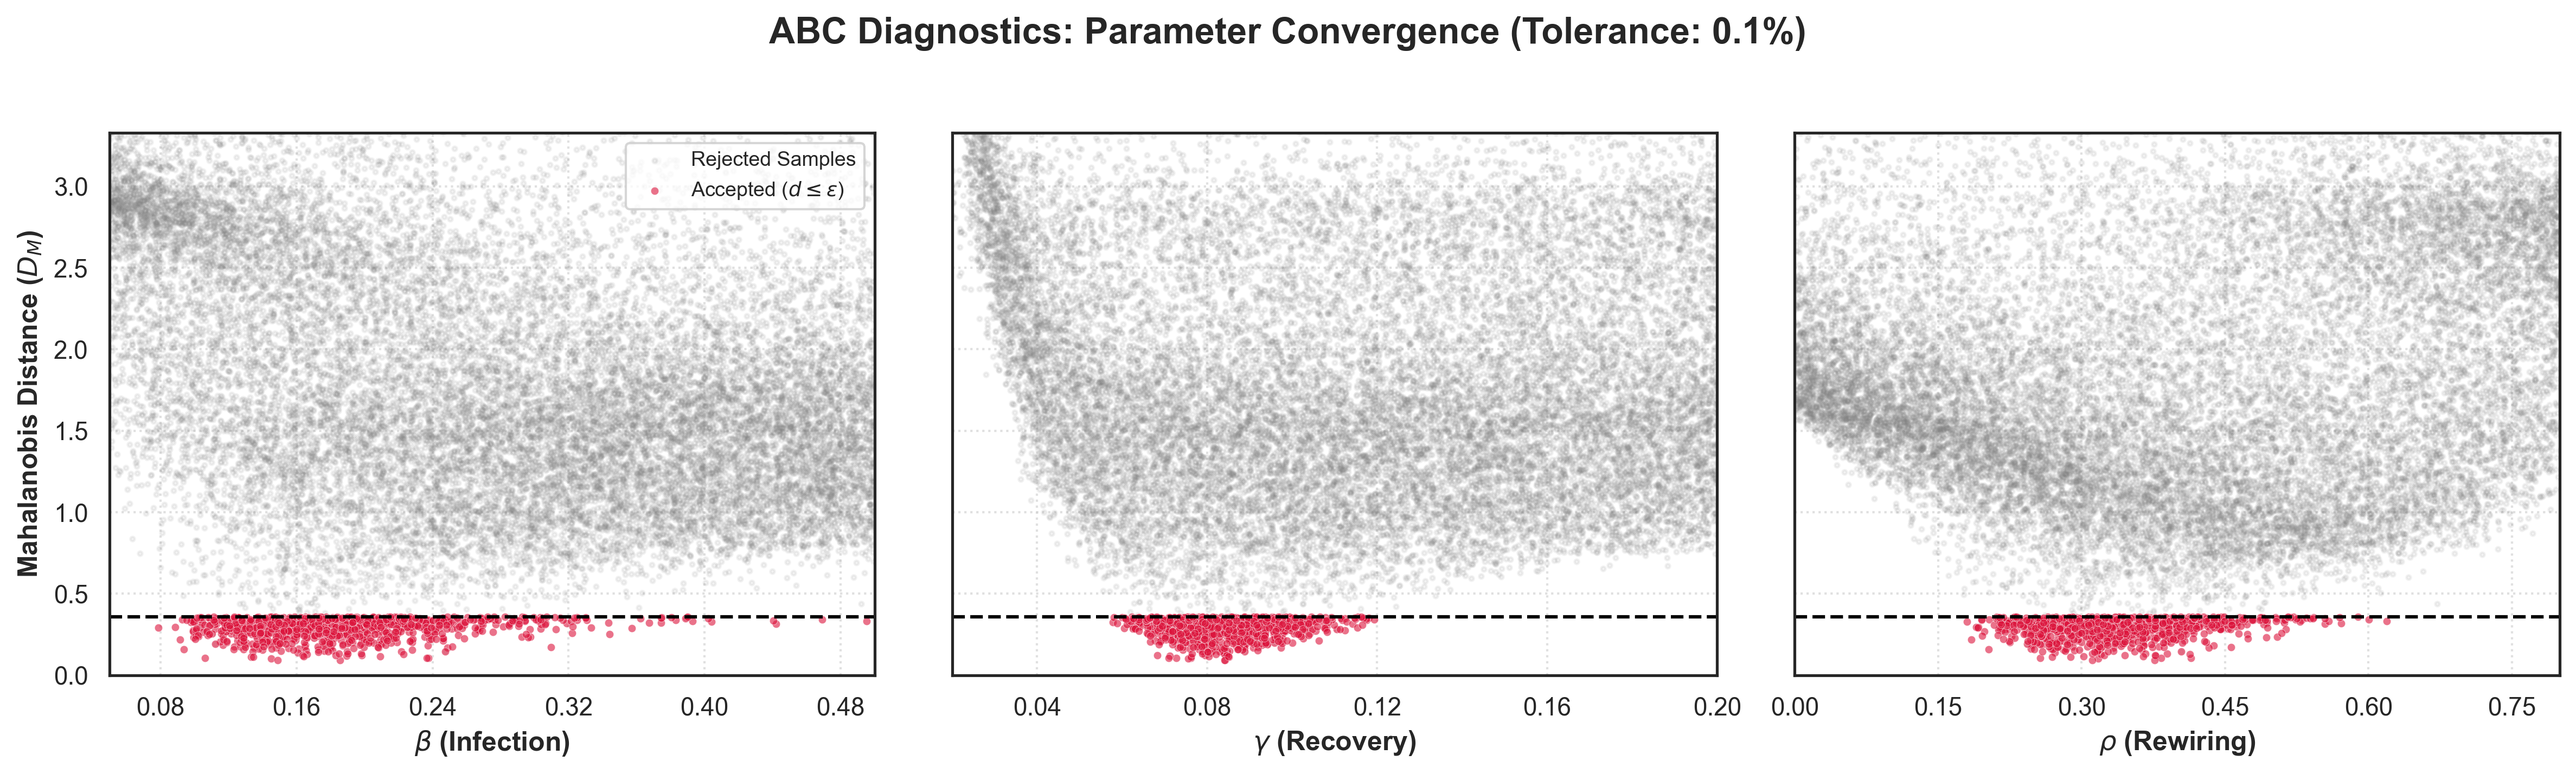
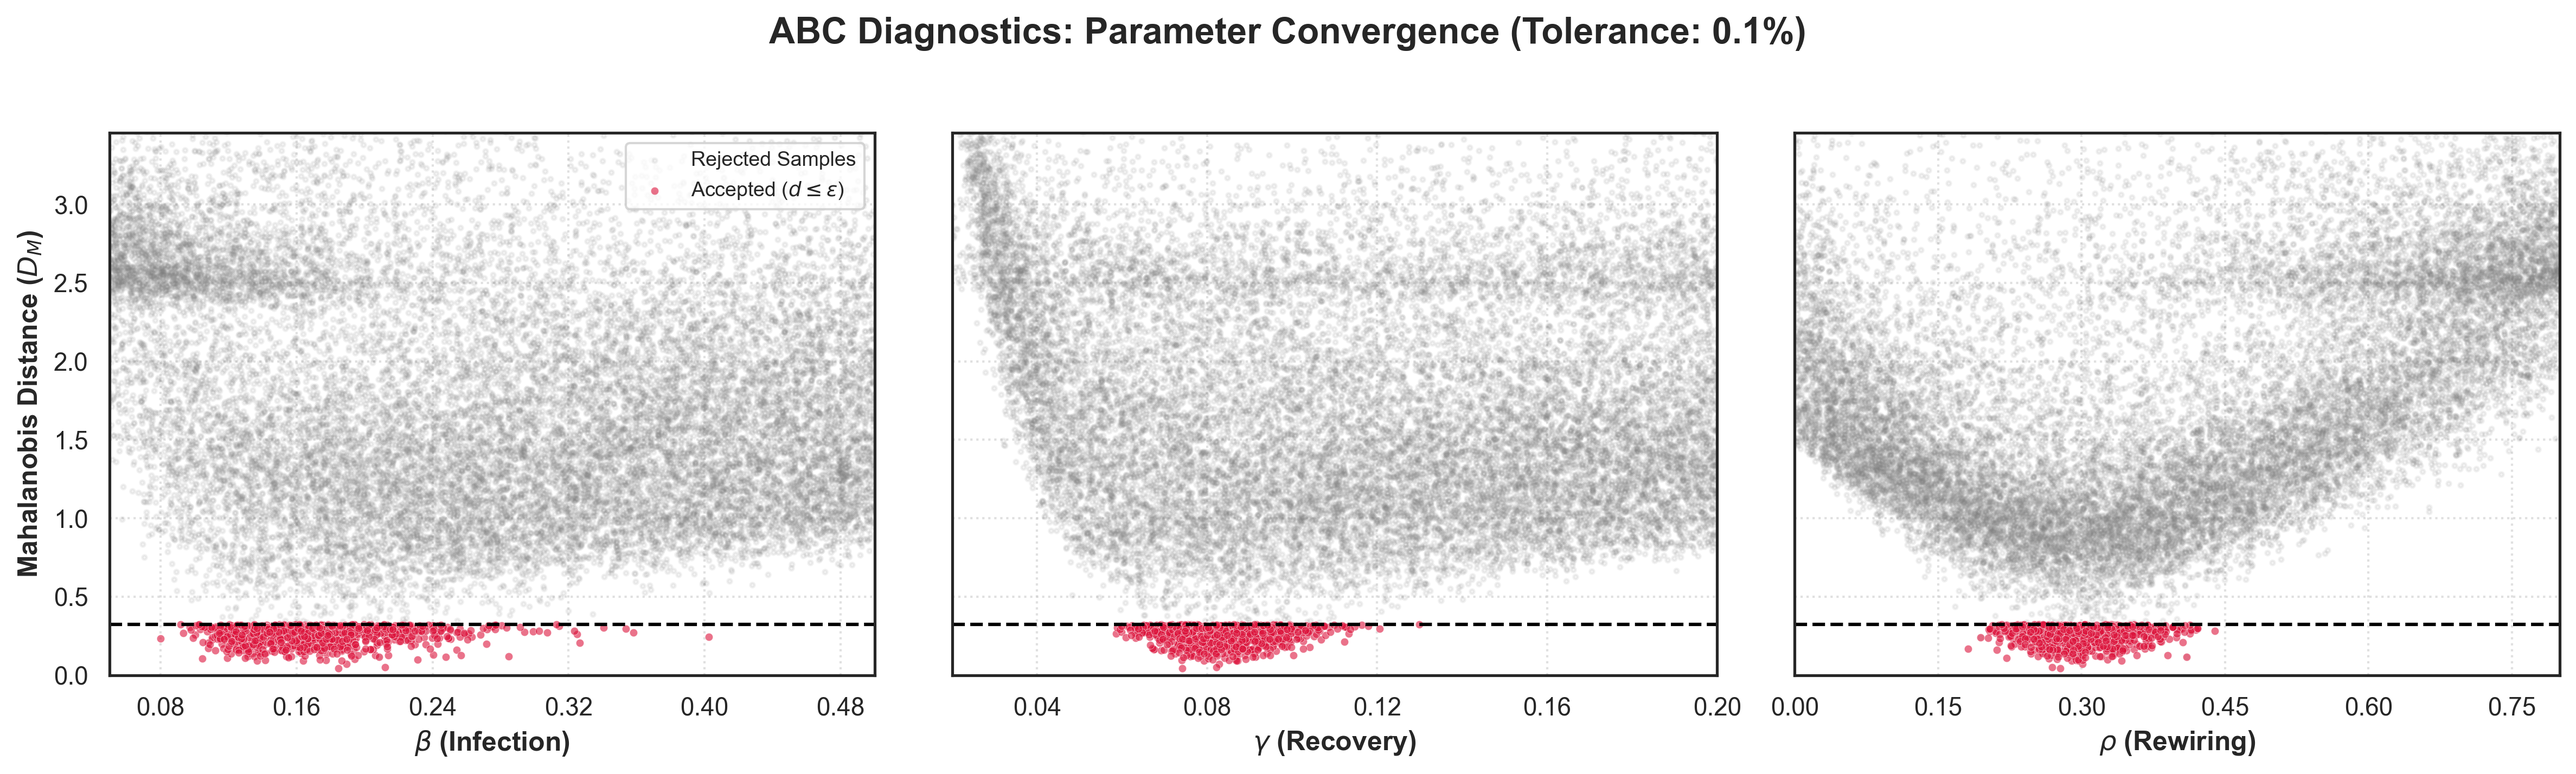
completed summary statistic design

Changed region(s): [[0.3739, 0.1541, 0.9971, 0.8627], [0.0, 0.1541, 0.3427, 0.8627]]

diff --git a/3-BasicABC-Mahalanobis-improved.py b/3-BasicABC-Mahalanobis-improved.py
@@ -45,37 +45,87 @@ def load_observed_data():
 
 def compute_summary_statistics(infected, rewires, degrees):
     """
-    Computes a vector of summary statistics for the data.
+    Computes an optimised 4-dimensional vector of summary statistics.
+    
+    This specific combination of statistics was chosen to break the structural 
+    unidentifiability between beta (transmission) and rho (rewiring) while 
+    extracting a clean signal for gamma (recovery) and avoiding the stochastic 
+    noise inherent in small (N=200) random graphs.
     
     Parameters
     ----------
     infected : np.ndarray, shape (N, 201)
+        Fraction of infected nodes at each time step.
     rewires  : np.ndarray, shape (N, 201)
+        Count of successful rewiring events at each time step.
     degrees  : np.ndarray, shape (N, 31)
+        Histogram of final degrees (counts per bin 0-30).
     
     Returns
     -------
-    stats : np.ndarray, shape (N, 4)
-        The computed summary statistics:[max_infection, total_infection, total_rewires, mean_degree]
+    stats : np.ndarray, shape (N, 4)[max_inf, sum_inf, max_rew, gini_deg]
     """
 
-    # 1. Peak infection fraction
+    # =================================================================
+    # 1. PEAK INFECTION FRACTION (Main target: Beta, paritally Rho)
+    # =================================================================
+    # Purpose: Captures the maximum severity (the "height") of the epidemic.
+    # Contribution: This is the primary signal for \beta. A highly infectious 
+    # disease will produce a massive peak, while a weak disease will stay low.
+    # Note: It is partially coupled with \rho, as a high rho (lots of social 
+    # distancing) can also suppress the peak.
     max_inf = np.max(infected, axis=1)
     
-    # 2. Total infection burden
+    # =================================================================
+    # 2. TOTAL INFECTION BURDEN (Main target: Gamma)
+    # =================================================================
+    # Purpose: Calculates the area under the infection curve (total infected-days).
+    # Contribution: This is the definitive signal for \gamma. Because \gamma 
+    # dictates the duration of an infection (1/\gamma), it strictly controls 
+    # how long the epidemic lingers. A low \gamma means infections last longer, 
+    # directly inflating this sum regardless of network topology.
     sum_inf = np.sum(infected, axis=1)
     
-    # 3. Total number of rewiring events
-    sum_rew = np.sum(rewires, axis=1)
+    # =================================================================
+    # 3. PEAK REWIRING INTENSITY (Main target: Rho)
+    # =================================================================
+    # Purpose: Measures the maximum 'avoidance' response in a single time step.
+    # Contribution: This heavily targets \rho and decouples it from \beta. 
+    # While total rewiring might look similar for a fast/short epidemic and a 
+    # slow/long epidemic, a high \rho typically leads to a large spike 
+    # in rewiring events which max_rew captures.
+    max_rew = np.max(rewires, axis=1)
     
-    # 4. Mean final degree of the network
-    # We multiply the bin index (0 to 30) by the counts in that bin
+    # =================================================================
+    # 4. DEGREE GINI COEFFICIENT (Main target: Rho / Structural Inequality)
+    # =================================================================
+    # Purpose: Measures how unequal the final degree distribution is.
+    # Contribution: A standard Erdős-Rényi graph has low inequality (low Gini). 
+    # As \rho increases, susceptible nodes flee infected neighbors, creating 
+    # isolated infected nodes (low degree) and highly connected safe hubs 
+    # (high degree). The Gini coefficient captures this structural inequality.
+    
+    n_nodes = 200
     bins = np.arange(31)
-    total_nodes = np.sum(degrees, axis=1) # Always 200, but good to be robust
-    mean_deg = np.sum(degrees * bins, axis=1) / total_nodes
     
-    # Stack them horizontally into an (N, 4) matrix
-    return np.column_stack([max_inf, sum_inf, sum_rew, mean_deg])
+    # Total edges and mean degree for each simulation
+    total_k = np.sum(degrees * bins, axis=1)
+    mean_k = total_k / n_nodes
+    
+    # Matrix of absolute differences between all pairs of degree bins: |i - j|
+    bin_diffs = np.abs(bins[:, None] - bins[None, :])
+    
+    # Calculate the Gini numerator: sum_{i,j} (count_i * count_j * |bin_i - bin_j|)
+    # We use vectorized matrix multiplication (np.dot) to do this instantly for all simulations.
+    count_prod_diff = np.sum(np.dot(degrees, bin_diffs) * degrees, axis=1)
+    
+    # Final Gini formula: Numerator / (2 * N^2 * mean)
+    # We add 1e-6 to the denominator to prevent division by zero in edge cases.
+    gini_deg = count_prod_diff / (2 * (n_nodes**2) * mean_k + 1e-6)
+
+    # Return summary statistics
+    return np.column_stack([max_inf, sum_inf, max_rew, gini_deg])
+
 
 
 def main():
